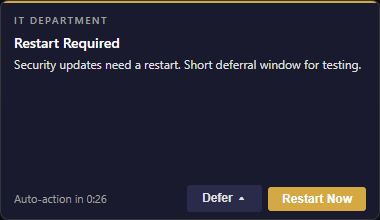
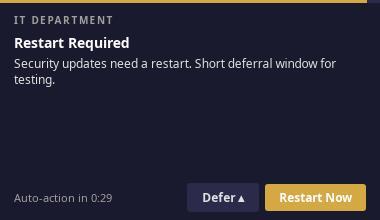
docs: Update screenshots and document countdown bar behavior
Real screenshots captured from Linux DCV display showing the new
accent bar countdown. Updated usage.md (filesystem watch section),
architecture.md (Web UI section, fs:event, main.js description),
and README features table.

diff --git a/docs/architecture.md b/docs/architecture.md
@@ -255,7 +255,7 @@ hermes/
 ├── frontend/                      The web UI (embedded into binary)
 │   ├── index.html                 Notification layout
 │   ├── style.css                  Dark theme, CSS custom properties
-│   └── main.js                    Countdown, dropdowns, Wails bindings
+│   └── main.js                    Countdown bar, shimmer, dropdowns, Wails bindings
 │
 ├── build/                         Wails build metadata (icons, manifest)
 │   ├── linux/hermes-notifications.desktop  App launcher entry (GNOME/KDE)
@@ -397,10 +397,12 @@ The algorithm uses `WindowCenter()` as a reference point, then derives the notif
 
 The frontend is vanilla HTML/CSS/JS — no framework, no bundler, no node_modules. CSS uses custom properties (`--accent`) set at runtime from `accent_color` in the config.
 
+The accent bar at the top of each notification doubles as a countdown progress indicator: it shrinks left-to-right via `transform: scaleX()` (GPU composited, zero layout recalc over the timeout period). When `watch_paths` is configured, a shimmer animation sweeps across the bar to indicate active filesystem monitoring. The shimmer stops permanently on the first `fs:event`, while the bar continues shrinking. The countdown element carries ARIA `progressbar` attributes for screen reader accessibility. The inbox view uses the same `.accent` element without `.bar-track`, so it renders as a static solid accent line.
+
 JS communicates with Go through Wails runtime bindings:
 
 **Notification view (`App`):**
-- `GetConfig()` — populate heading, message, buttons, images, countdown
+- `GetConfig()` — populate heading, message, buttons, images, countdown bar
 - `DeferralAllowed()` — check if defer buttons should be shown
 - `Ready()` — signal Go to position and show the window
 - `Respond(value)` — send the response (button click or timeout)
@@ -413,7 +415,7 @@ JS communicates with Go through Wails runtime bindings:
 - `Ready()` — center and show the inbox window
 
 Wails event channels:
-- `fs:event` — filesystem change events from the watch package (fields: `path`, `op`)
+- `fs:event` — filesystem change events from the watch package (fields: `path`, `op`). First event stops the accent bar shimmer animation permanently.
 
 ---
 

diff --git a/README.md b/README.md
@@ -82,10 +82,10 @@ The service tracks deferrals per notification, persisted to disk. When the user 
 | **Buttons & dropdowns** | Primary, secondary, danger styles. Dropdown menus for defer options. |
 | **Deferrals** | User can defer N times within a deadline. State persists across restarts. |
 | **Image carousel** | Embed slides/screenshots via HTTPS URLs or data URIs. Arrow key navigation. |
-| **Filesystem watch** | Monitor paths for changes (e.g. wait for install receipt). UI updates live. |
+| **Filesystem watch** | Monitor paths for changes (e.g. wait for install receipt). Shimmer on accent bar indicates active watching, stops on first event. |
 | **Do Not Disturb** | Detects OS Focus/DND mode. Default: wait and retry. Also: skip or ignore. |
 | **Settings URIs** | `uri:ms-settings:windowsupdate` (Windows), `uri:x-apple.systempreferences:...` (macOS). Platform-filtered at runtime. |
-| **Countdown timer** | Auto-action after timeout. Configurable value returned to calling script. |
+| **Countdown timer** | Accent bar shrinks visually over the timeout period (`scaleX`, GPU composited). Auto-action after timeout. |
 | **Inbox / history** | Completed notifications are persisted. View past actions via `hermes inbox` (UI or JSON). Auto-pruned by age and count. |
 | **Offline queue** | Service unreachable? Notification is persisted locally and delivered on next startup. Exit 203. |
 | **Priority** | Control delivery order (0-10). Higher priority notifications drain first. |

diff --git a/docs/usage.md b/docs/usage.md
@@ -213,7 +213,7 @@ Monitor filesystem paths for changes during the notification. When a watched pat
 }
 ```
 
-The notification footer shows "Monitoring filesystem..." initially, then updates with each event (e.g. "create: version.txt"). The frontend receives events via the Wails `fs:event` event channel, so custom frontends can also subscribe.
+The notification footer shows "Monitoring filesystem..." initially, and a shimmer animation sweeps across the accent bar to indicate active watching. When a watched file event fires (e.g. "CREATE: version.txt"), the shimmer stops permanently and the footer updates with the event. The accent bar continues shrinking as the countdown timer progresses. The frontend receives events via the Wails `fs:event` event channel, so custom frontends can also subscribe.
 
 If a watched path doesn't exist yet, hermes watches its parent directory to catch creation events.
 
